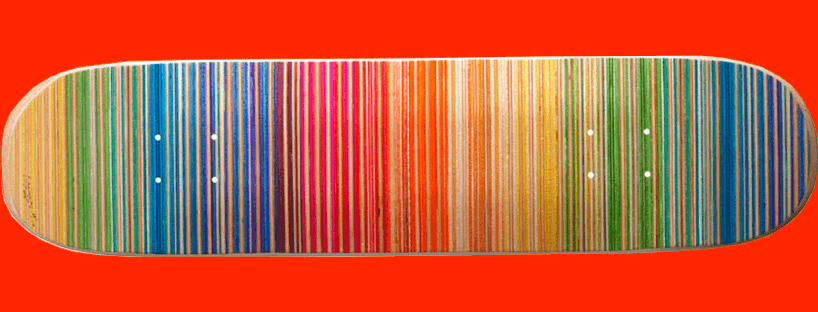
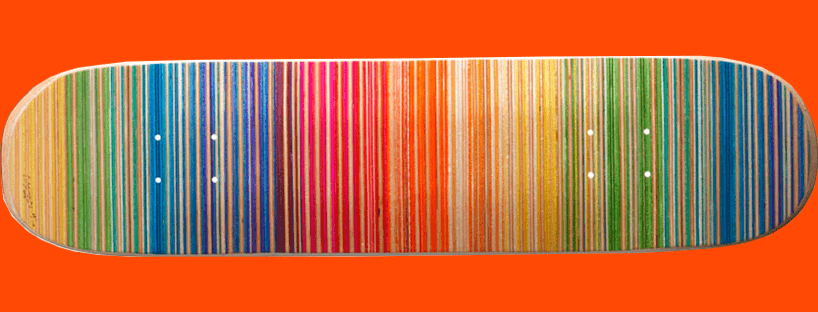
Changes

diff --git a/public/css/main.css b/public/css/main.css
@@ -90,7 +90,7 @@ a:hover {
 
 .box2 {
     margin-top: 100px;
-    background-color: #FF4804;
+    background-color: #FF4905;
     background-size: cover;
     background-size: 100% 100%;
     -webkit-clip-path: polygon(0 0, 100% 20%, 100% 100%, 0 80%);
@@ -504,7 +504,7 @@ header h1 {
   margin-left: -22px;
   margin-top: -22px;
   border-radius: 50%;
-  background: #FF4804  no-repeat center center;
+  background: #FF4905  no-repeat center center;
   cursor: move;
   box-shadow: 0 0 0 6px rgba(0, 0, 0, 0.2), 0 0 10px rgba(0, 0, 0, 0.6), inset 0 1px 0 rgba(255, 255, 255, 0.3);
   opacity: 0;
@@ -550,7 +550,7 @@ header h1 {
     visibility: hidden;
     width: 160px;
     background-color: white;
-    color: #FF4804;
+    color: #FF4905;
     text-align: center;
     border-radius: 3px;
     padding: 20px 0;
@@ -779,7 +779,7 @@ svg {
 .box-header {
     height: 400px;
     margin-top: 420px;
-    background-color: #FF4804;
+    background-color: #FF4905;
     background-size: cover;
     background-size: 100% 100%;
     -webkit-clip-path: polygon(0 0, 100% 20%, 100% 100%, 0 80%);
